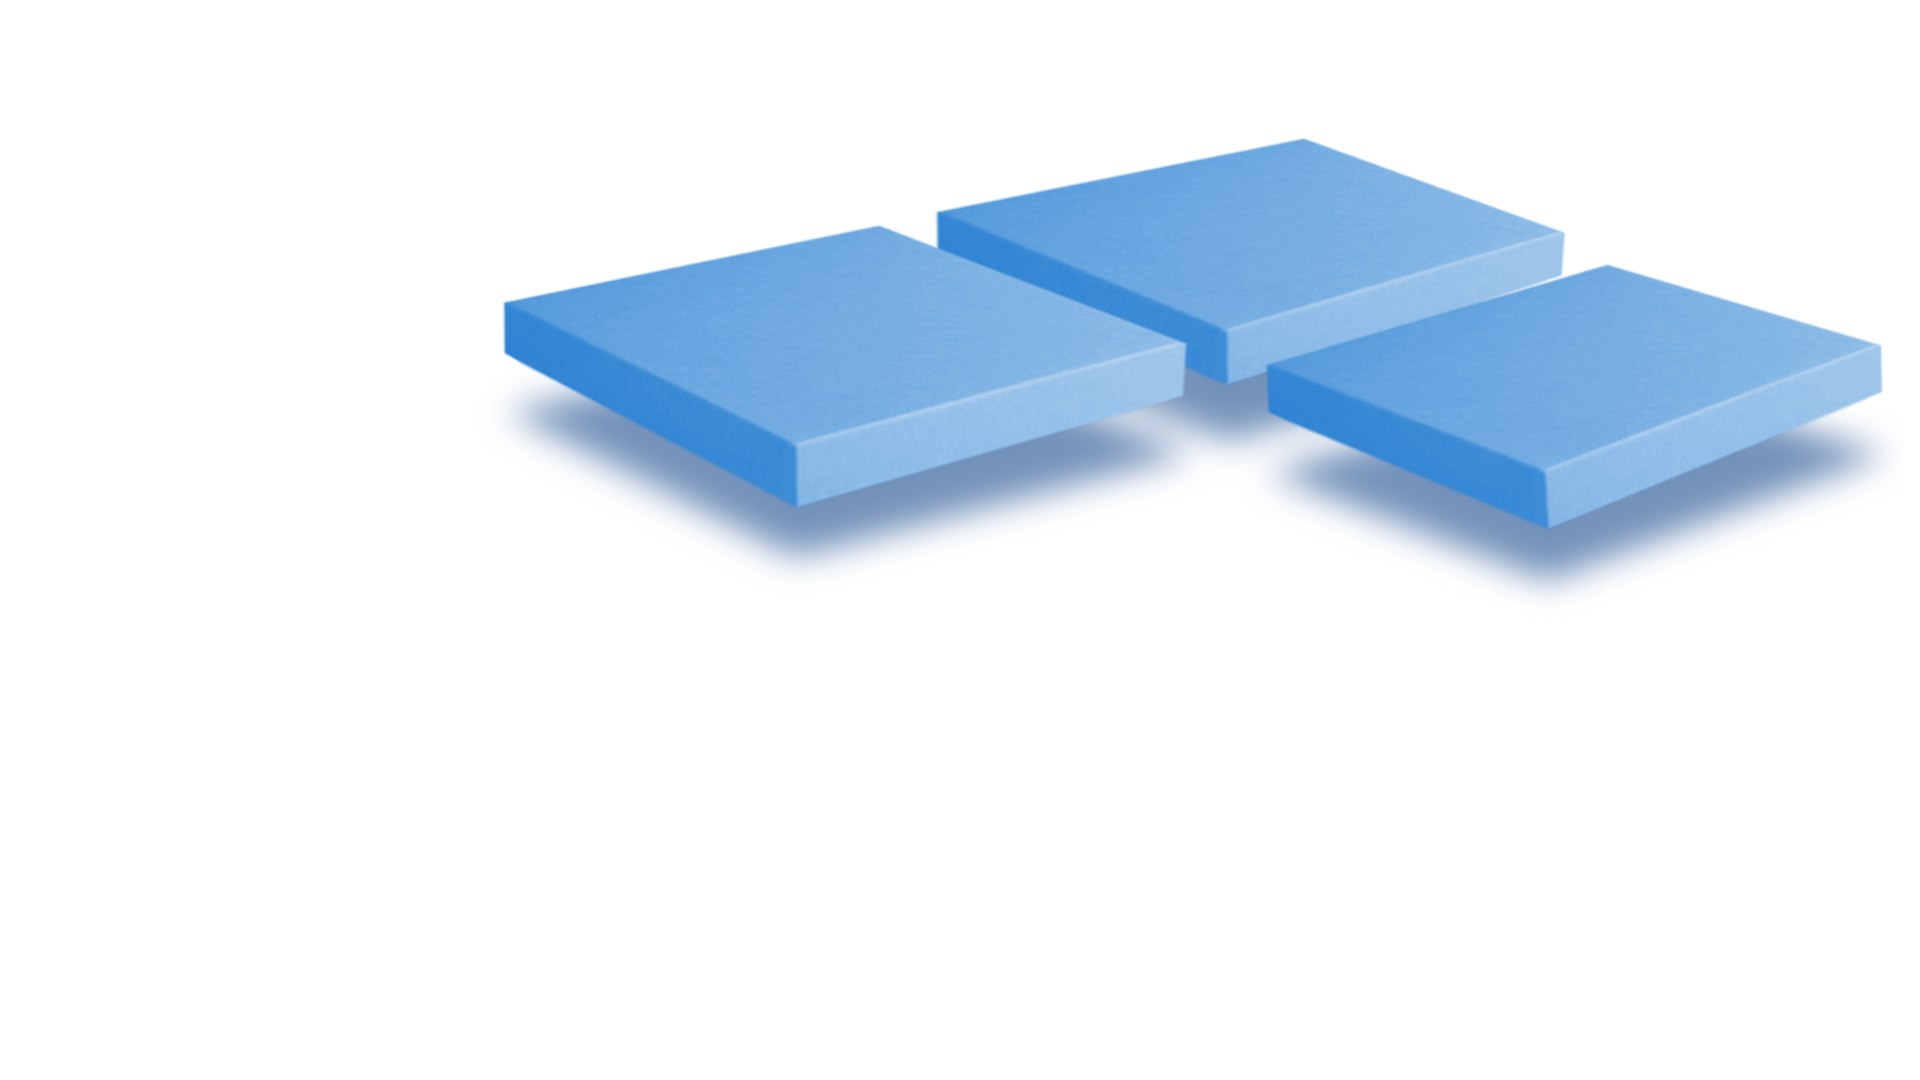
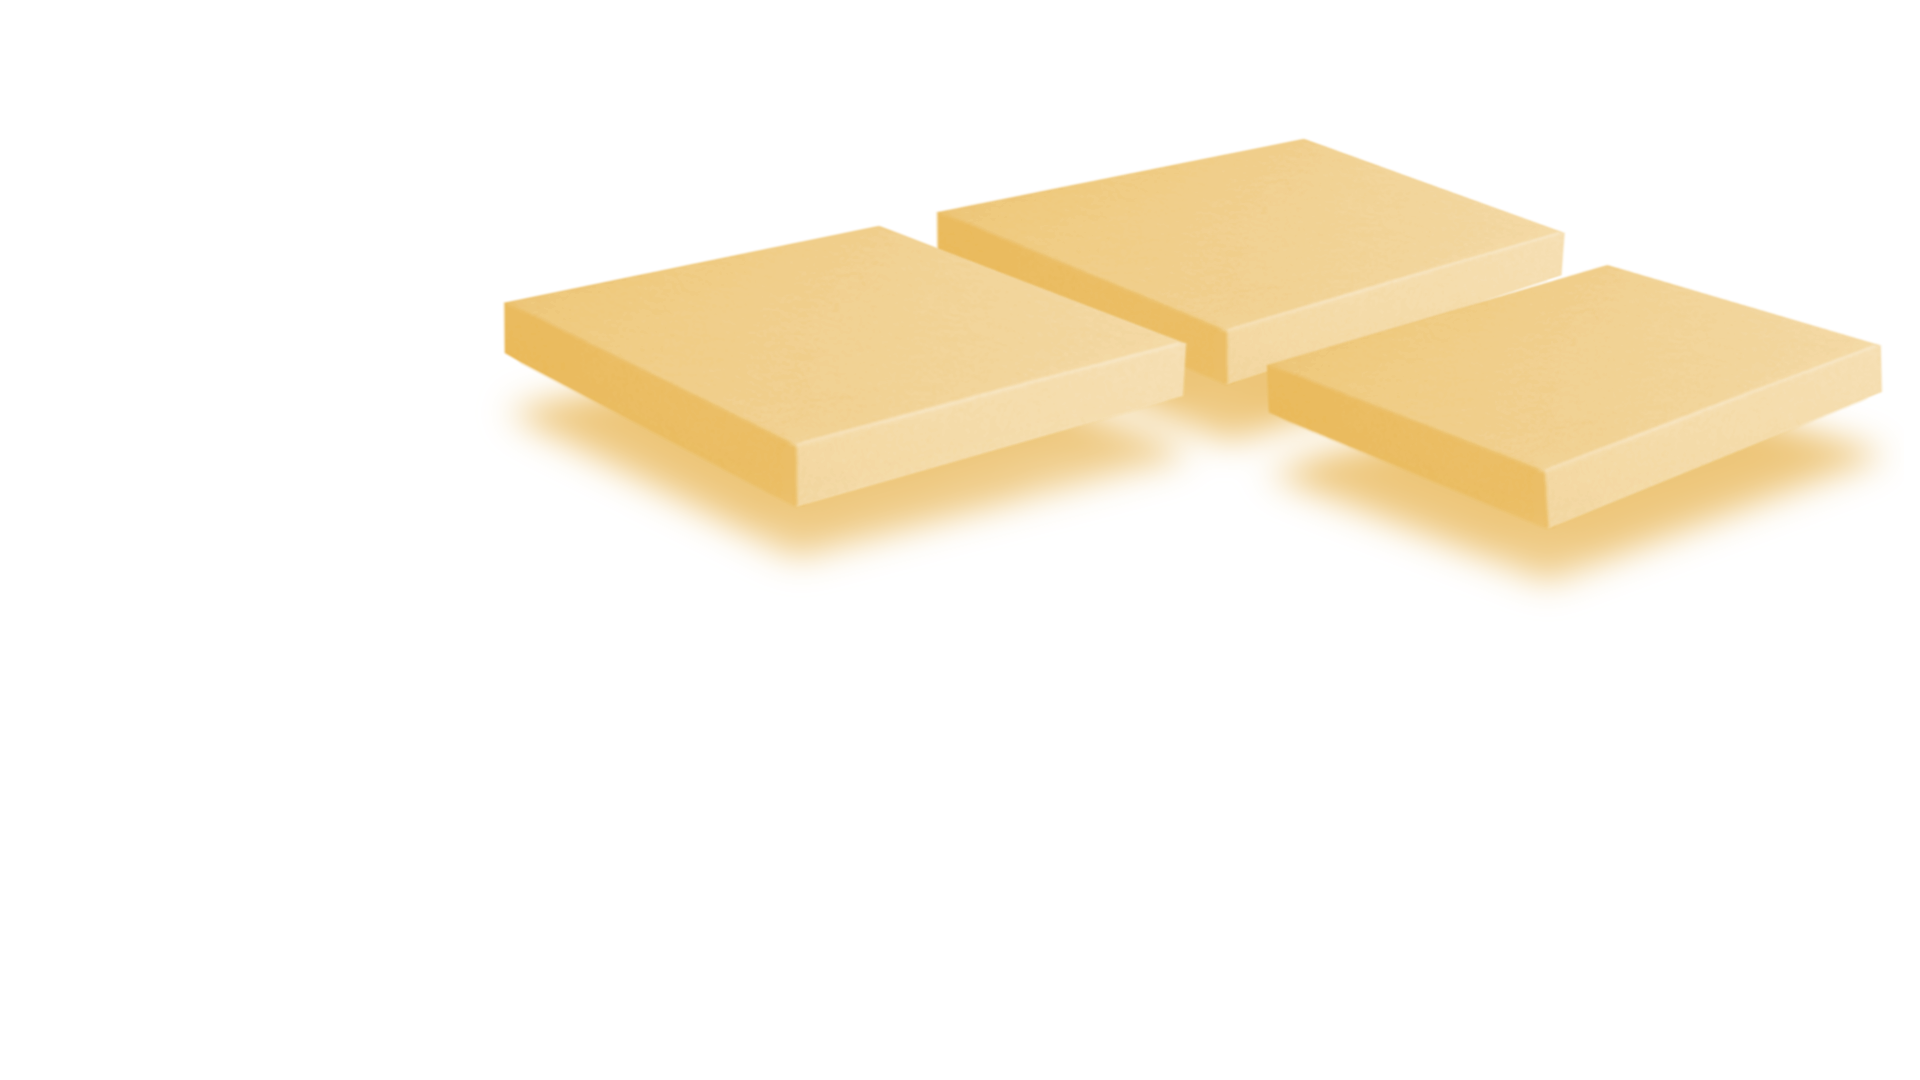
navbar update

Changed region(s): [[0.25, 0.1222, 1.0, 0.55]]

diff --git a/src/components/Navbar/Navbar.jsx b/src/components/Navbar/Navbar.jsx
@@ -1,4 +1,4 @@
-import React, { useState } from 'react'
+import React, { useState } from 'react';
 
 import Box from '@mui/material/Box';
 import Drawer from '@mui/material/Drawer';
@@ -12,25 +12,30 @@ import ListItem from '@mui/material/ListItem';
 import ListItemButton from '@mui/material/ListItemButton';
 import ListItemIcon from '@mui/material/ListItemIcon';
 import ListItemText from '@mui/material/ListItemText';
+import IconButton from '@mui/material/IconButton';
+import { useMediaQuery, Button } from '@mui/material';
 
+import { FiMenu, FiLogOut } from "react-icons/fi";
 import { taskboardNavbarItems, boardNavbarItems } from './consts/navbarItems';
 import { navBarStyles } from './navStyles';
-import logo from '../../assets/taskboard logo.png'
-import { Button, IconButton } from '@mui/material';
-import { FiLogOut } from "react-icons/fi";
+import logo from '../../assets/taskboard logo.png';
 import AddNewBoard from '../modal/AddNewBoard';
-import { Router, useLocation, useNavigate, useParams } from 'react-router-dom';
+import { useLocation, useNavigate, useParams } from 'react-router-dom';
 
-
-const Navbar = ({ navOpt, setResBoard}) => {
-  const location = useLocation(); // Hook to get current location
-  const param = useParams()
-  const [loc, setLoc] = useState('');
+const Navbar = ({ navOpt, setResBoard }) => {
+  const location = useLocation();
+  const param = useParams();
+  const navigate = useNavigate();
+  const [isDrawerOpen, setIsDrawerOpen] = useState(false);
   const [isModalOpen, setIsModalOpen] = useState(false);
+
+  // Media query to detect small screens
+  const isMobile = useMediaQuery((theme) => theme.breakpoints.down('sm'));
 
   const handleOpenModal = () => setIsModalOpen(true);
   const handleCloseModal = () => setIsModalOpen(false);
-  
+  const toggleDrawer = () => setIsDrawerOpen(!isDrawerOpen);
+
   const getItemsForNav = (navOpt) => {
     switch (navOpt) {
       case 'board':
@@ -42,24 +47,38 @@ const Navbar = ({ navOpt, setResBoard}) => {
     }
   };
 
-  let navigate = useNavigate();
-
   const handleClick = (fn, route) => {
     switch (fn) {
       case 'createBord':
         return handleOpenModal();
-      case 'goTo': {
-        
-        
-        const path = route === '/taskboards' ? route : (`${param.id ? `/${param.id}` : ''}${route}`);
+      case 'goTo':
+        const path = route === '/taskboards'
+          ? route
+          : (`${param.id ? `/${param.id}` : ''}${route}`);
         navigate(path);
-      }
-
+        break;
       default:
-        return [];
+        break;
     }
-  }
+  };
 
+  const drawerContent = (
+    <List>
+      {getItemsForNav(navOpt).map((item) => (
+        <ListItem key={item.id} disablePadding>
+          <ListItemButton
+            onClick={() => handleClick(item.functionName, item.route)}
+            selected={location.pathname === `${param.id ? `/${param.id}` : ''}${item.route}`}
+          >
+            <ListItemIcon sx={navBarStyles.icons}>
+              <item.icon size={28} />
+            </ListItemIcon>
+            <ListItemText primary={item.label} />
+          </ListItemButton>
+        </ListItem>
+      ))}
+    </List>
+  );
 
   return (
     <>
@@ -67,44 +86,46 @@ const Navbar = ({ navOpt, setResBoard}) => {
       <AppBar position="fixed" sx={navBarStyles.appbar}>
         <Toolbar>
           <Box sx={navBarStyles.wrapper}>
-            <img src={logo} style={navBarStyles.logo} alt="" />
+            {isMobile && (
+             <Box sx={navBarStyles.smallBox}>
+                <IconButton sx={navBarStyles.menuIcons} edge="start" onClick={toggleDrawer}>
+                  <FiMenu />
+                </IconButton>
+                <img src={logo} style={navBarStyles.logoSmall} alt="Taskboard Logo" />
+             </Box>
+            )}
+            {!isMobile && <img src={logo} style={navBarStyles.logo} alt="Taskboard Logo" />}
             <Box sx={navBarStyles.topRow}>
-              <IconButton onClick={() => navigate('/')} color="white">
+              <IconButton onClick={() => navigate('/')} sx={{color:'#fcfcf'}} aria-label="Logout">
                 <FiLogOut />
               </IconButton>
             </Box>
           </Box>
         </Toolbar>
       </AppBar>
+
+      {/* Drawer: Temporary for Mobile, Permanent for Desktop */}
       <Drawer
         sx={navBarStyles.drawer}
-        variant="permanent"
+        variant={isMobile ? 'temporary' : 'permanent'}
         anchor="left"
+        open={isMobile ? isDrawerOpen : true}
+        onClose={toggleDrawer}
       >
         <Toolbar />
         <Divider />
         <Toolbar />
-        <List>
-          {getItemsForNav(navOpt).map((item) => (
-            <ListItem key={item.id} disablePadding>
-              <ListItemButton onClick={() => handleClick(item.functionName, item.route)} selected={location.pathname === `${param.id ? `/${param.id}` : ''}${item.route}`}>
-                <ListItemIcon sx={navBarStyles.icons}>
-                  <item.icon size={28} />
-                </ListItemIcon>
-                <ListItemText primary={item.label} />
-              </ListItemButton>
-            </ListItem>
-          ))}
-        </List>
+        {drawerContent}
       </Drawer>
 
-      {
-        <AddNewBoard open={isModalOpen}
-          handleClose={handleCloseModal}
-          setResBoard={setResBoard} />
-      }
+      {/* Modal for Adding New Board */}
+      <AddNewBoard
+        open={isModalOpen}
+        handleClose={handleCloseModal}
+        setResBoard={setResBoard}
+      />
     </>
-  )
-}
+  );
+};
 
-export default Navbar
+export default Navbar;

diff --git a/src/components/Navbar/navStyles.js b/src/components/Navbar/navStyles.js
@@ -9,24 +9,46 @@ export const navBarStyles = {
         },
     },
     wrapper: {
-        width: '100%',
         display: 'flex',
-        // backgroundColor: '#abcd',
+        alignItems: 'center',
         justifyContent: 'space-between',
-        // padding: '20px',
-    },
+        width: '100%',
+      },
+    // wrapper: {
+    //     width: '100%',
+    //     display: 'flex',
+    //     // backgroundColor: '#abcd',
+    //     justifyContent: 'space-between',
+    //     // padding: '20px',
+    // },
     topRow: {
         display: 'flex',
         flexDirection: 'row',
         
         alignItems: 'center',
         '*': {
-            marginRight: '5px',
+            marginRight: '10px',
         },
     },
     icons:{
         color:'#4854F7',
         marginLeft: '20px'
+    },
+    smallBox: {
+        display: 'flex',
+        flexDirection: 'row',
+        alignItems: 'center',     
+    },
+    menuIcons:{
+        color:'#4854F7',
+        marginLeft: '1px',
+        
+    },
+    logoSmall:{
+        width:'125px',
+        padding:'10px 0px',
+        marginLeft:'5px',
+        marginTop:'5px'
     },
     logo:{
         width:'200px',
@@ -35,6 +57,6 @@ export const navBarStyles = {
     },
     appbar:{
         bgcolor:'#FBFAFA',
-        zIndex: '5001'
+        zIndex: (theme) => theme.zIndex.drawer + 1,
     }
 };

diff --git a/src/components/Card/cardStyle.js b/src/components/Card/cardStyle.js
@@ -5,6 +5,7 @@ export const cardStyle = {
         display: 'flex',
         flexDirection: 'column',
         backgroundColor: '#f5f5f5',
+        borderRadius:'10px',
         cursor: 'pointer',
         transition: 'transform 0.2s ease-in-out',
         '&:hover': {
@@ -17,6 +18,7 @@ export const cardStyle = {
       display: 'flex',
       flexDirection: 'column',
       backgroundColor: '#f5f5f5',
+      borderRadius:'10px',
       border: '2px solid #d50000',
       cursor: 'pointer',
       transition: 'transform 0.2s ease-in-out',
@@ -33,6 +35,7 @@ export const cardStyle = {
         backgroundColor: '#f5f5f5',
         cursor: 'pointer',
         border: '2px dashed #ccc',
+        borderRadius:'10px',
         transition: 'transform 0.2s ease-in-out',
         '&:hover': {
           transform: 'scale(1.05)',

diff --git a/src/pages/Login.jsx b/src/pages/Login.jsx
@@ -32,10 +32,10 @@ const Login = () => {
 
       {/* Hero Section */}
       <Container maxWidth="lg" sx={{ textAlign: 'start', marginBottom: 15, marginTop: 5 }}>
-        <Typography variant="h2" sx={{ fontWeight: 'bold', marginBottom: 2, color: 'black' }}>
+        <Typography variant="h2" sx={{ fontWeight: 'bold', marginBottom: 2, color: '#1C1C1C' }}>
           Welcome to TaskBoard
         </Typography>
-        <Typography variant="h6" sx={{ color: 'black', marginBottom: 3 }}>
+        <Typography variant="h6" sx={{ color: '#1C1C1C', marginBottom: 3 }}>
           Simplify your workflow, organize tasks, and boost productivity with Task Board.
         </Typography>
         <Button
